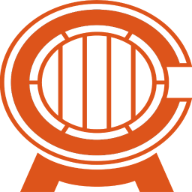
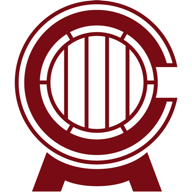
feat(2026): 탭 파비콘을 logo_background 기반 아이콘으로 교체
- logo_background.png → 정사각(흰 패딩) 후 16/32/180/192/512 png 생성
- 기존 favicon.ico(버건디) 제거, App Router icon.png 추가
- layout 아이콘 캐시버전 ?v=2→v=3 (전역 적용, /2025 탭도 동일)

diff --git a/src/app/layout.tsx b/src/app/layout.tsx
@@ -83,14 +83,14 @@ export const metadata: Metadata = {
   },
   icons: {
     icon: [
-      { url: "/icon-16x16.png?v=2", sizes: "16x16", type: "image/png" },
-      { url: "/icon-32x32.png?v=2", sizes: "32x32", type: "image/png" },
-      { url: "/icon.ico?v=2" },
+      { url: "/icon-16x16.png?v=3", sizes: "16x16", type: "image/png" },
+      { url: "/icon-32x32.png?v=3", sizes: "32x32", type: "image/png" },
+      { url: "/icon.ico?v=3" },
     ],
-    apple: [{ url: "/apple-touch-icon.png?v=2", sizes: "180x180", type: "image/png" }],
+    apple: [{ url: "/apple-touch-icon.png?v=3", sizes: "180x180", type: "image/png" }],
     other: [
-      { rel: "android-chrome-192x192", url: "/android-chrome-192x192.png?v=2" },
-      { rel: "android-chrome-512x512", url: "/android-chrome-512x512.png?v=2" },
+      { rel: "android-chrome-192x192", url: "/android-chrome-192x192.png?v=3" },
+      { rel: "android-chrome-512x512", url: "/android-chrome-512x512.png?v=3" },
     ],
   },
   manifest: "/site.webmanifest",
